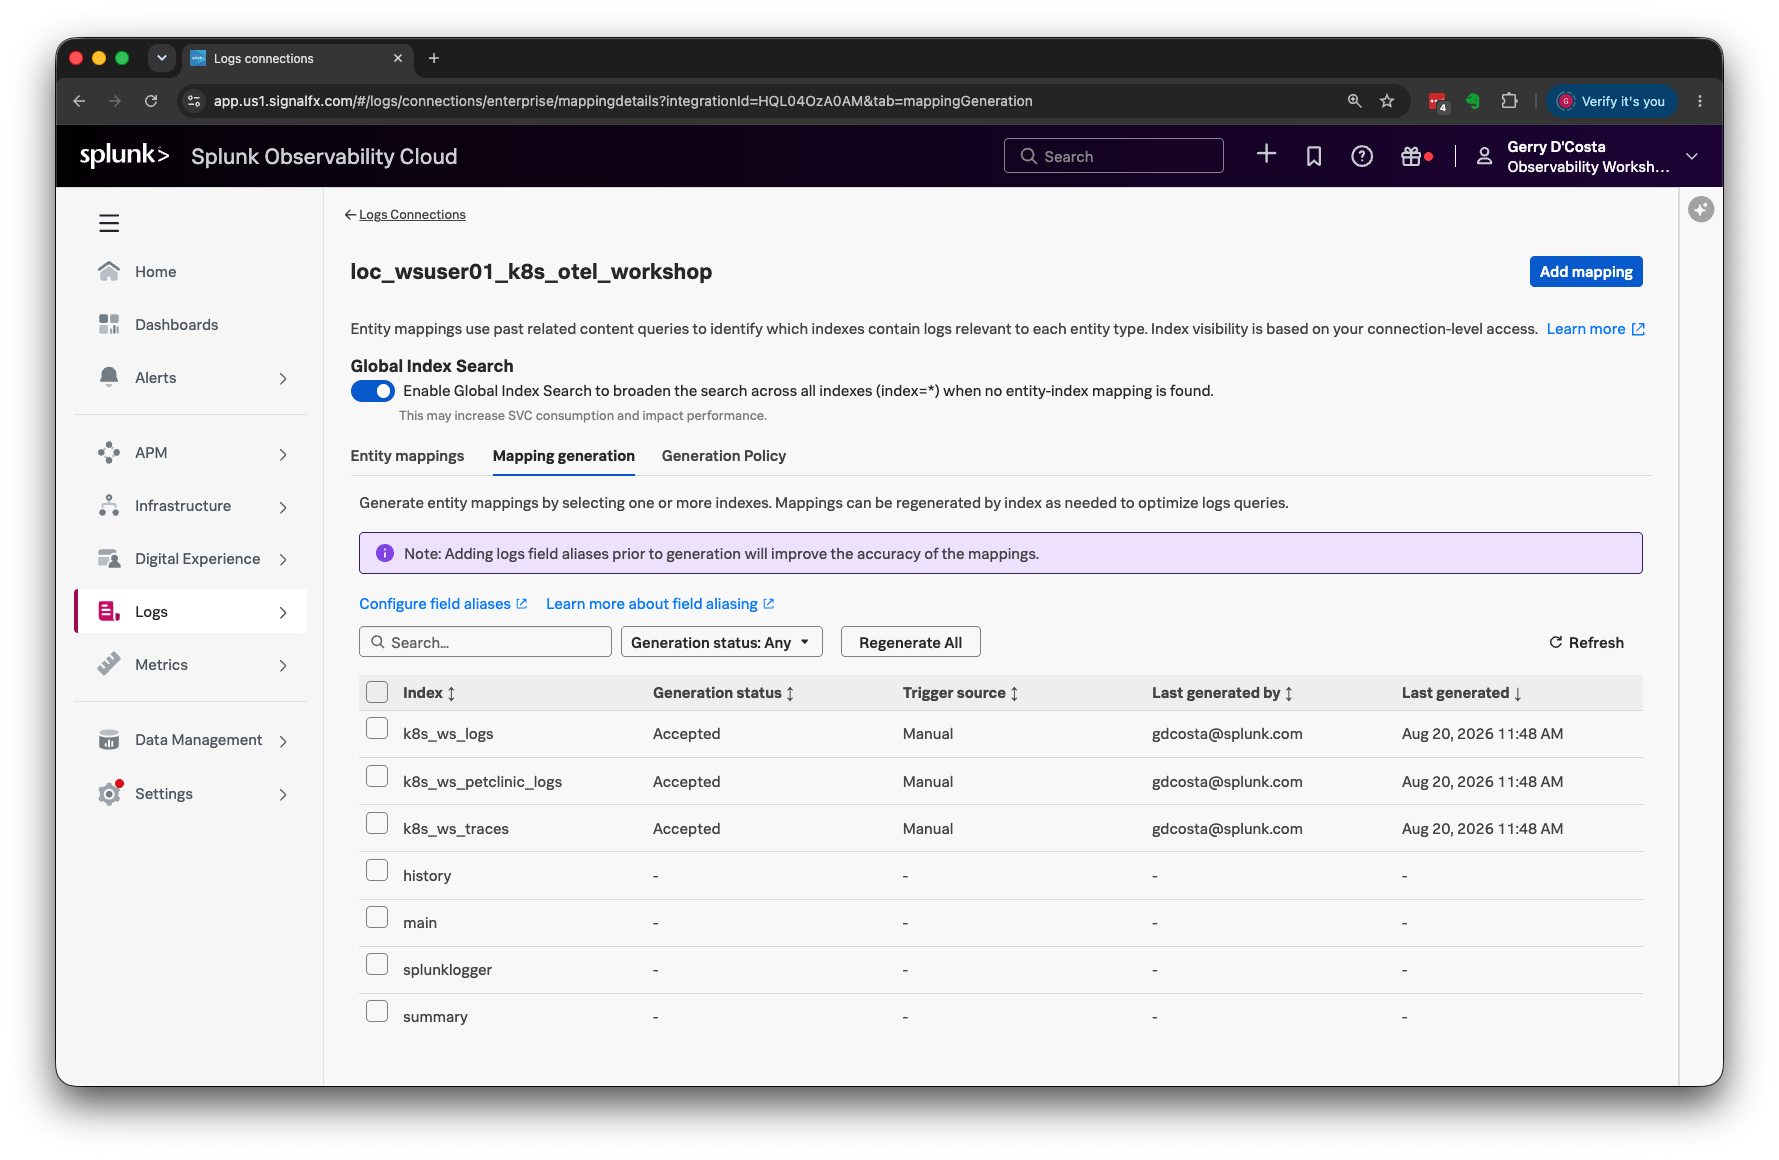
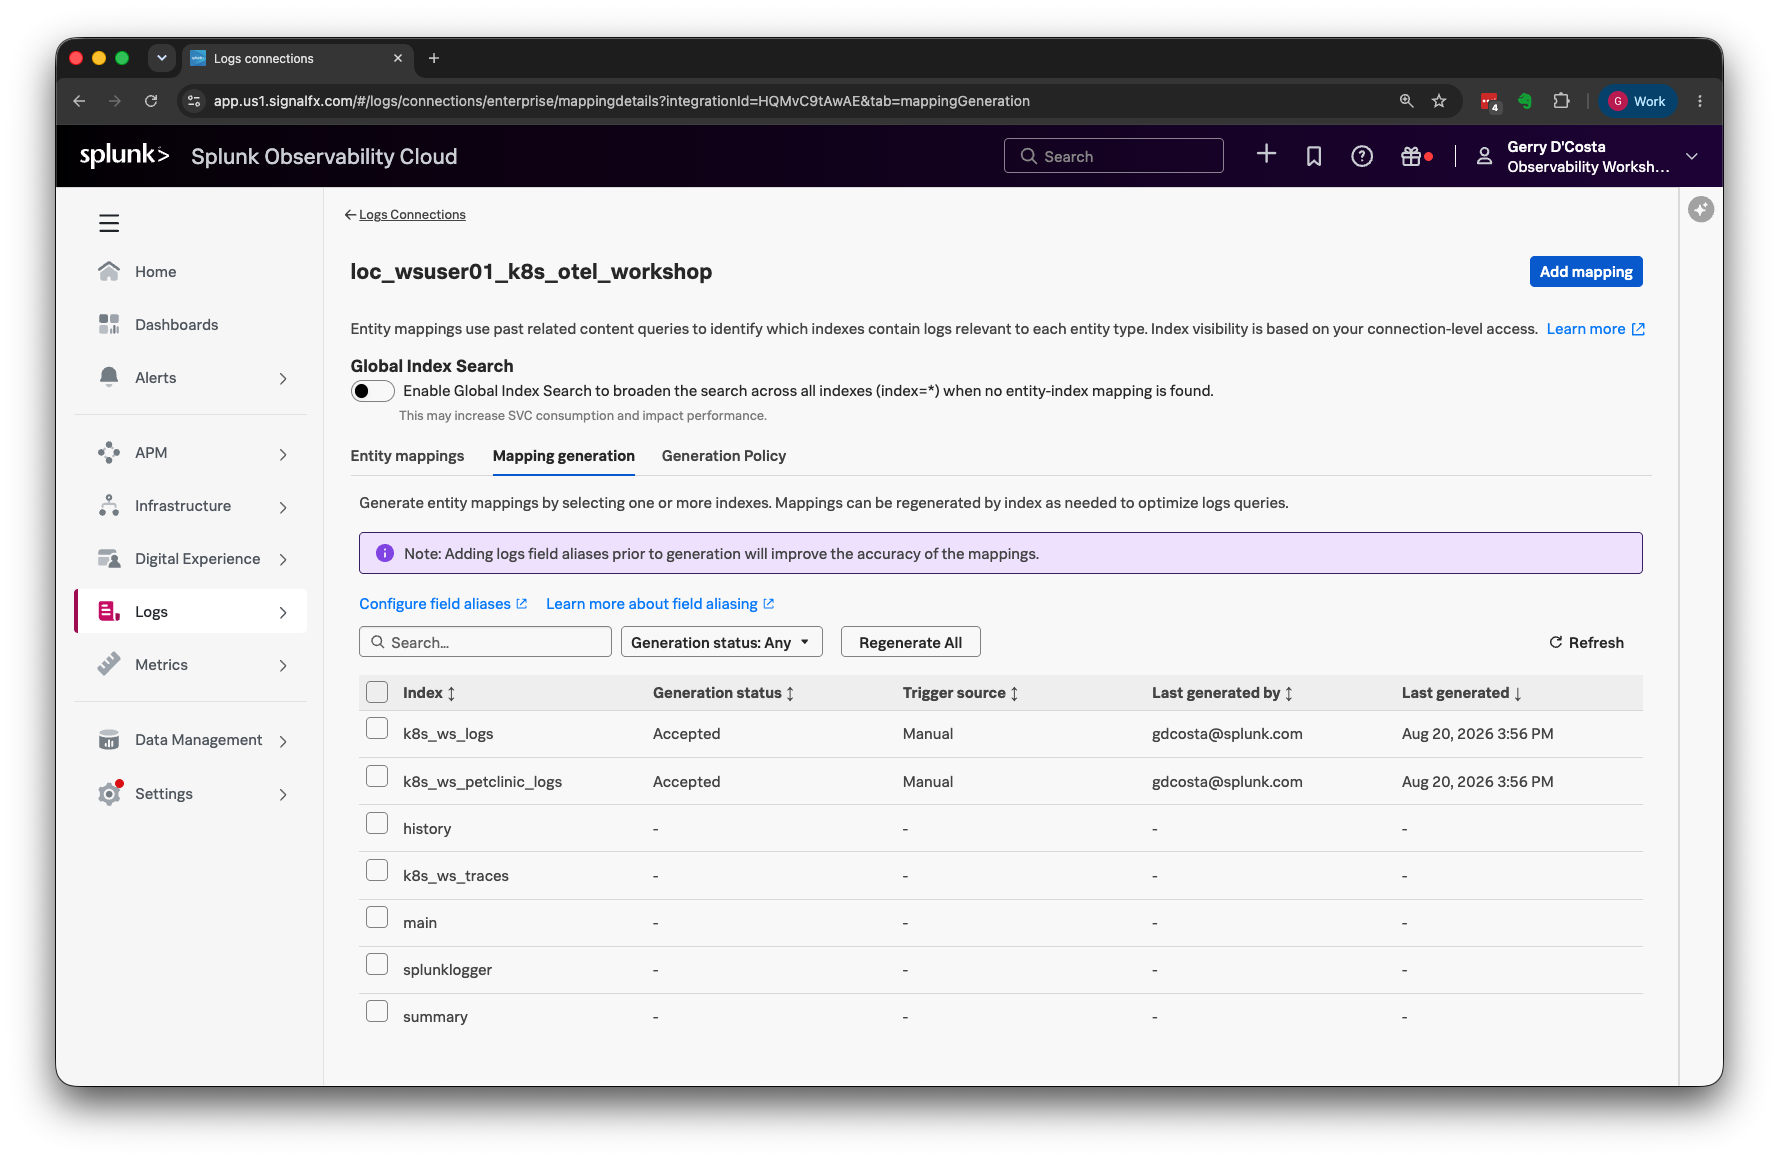
AW2: correct the mapping-generation step from a verified two-index run
Replaces the Log Observer Connect screenshots with captures from a run using
the corrected role (k8s_ws_traces removed per F40), and fixes two things they
revealed:

- Generation has three states, not two: Accepted -> In Progress -> Completed,
  and the indexes advance independently. Seeing one Completed while the other
  is still queued is normal, and moving on at that point reproduces exactly
  the half-built-mappings problem the step warns about.

- Global Index Search ships on and should be turned off. Left on it masks a
  broken mapping, because logs still arrive through the index=* fallback and
  a misconfiguration looks like a working setup. It also carries the product's
  own SVC-consumption warning. Turning it off does not narrow what the service
  account can reach: index=* is scoped to srchIndexesAllowed either way --
  verified as loc_svc (two indexes) against admin (three).

Also confirms F40's note that the seven-index picker cannot be reduced from
the role: deleting and recreating the connection under a new name still lists
the same seven. The picker enumerates metadata; the role governs reads.

Adds loc-12-generation-in-progress.png. Recapture markers narrowed to the two
images that are genuinely still stale.

diff --git a/docs/04-advanced-2/index.md b/docs/04-advanced-2/index.md
@@ -501,40 +501,53 @@ separate action that the guided setup never mentions.
    mappings and Make Default.
 
     ![Generate mappings menu](../assets/img/04-aw2/loc-07-generate-mappings-menu.png)
-    <!-- STATUS: pending-recapture · kebab menu on the connection row -->
+    <!-- STATUS: pending-recapture · menu contents are correct; the row behind it predates the two-index role -->
 
-2. You land on the **Mapping generation** tab. Tick the two workshop log indexes —
-   `k8s_ws_logs` and `k8s_ws_petclinic_logs`. The header should read *"Selected 2
-   indexes"*. Then **Generate**.
+2. You land on the **Mapping generation** tab. **Turn Global Index Search off** first —
+   see the note below for why — then tick the two workshop log indexes, `k8s_ws_logs` and
+   `k8s_ws_petclinic_logs`. The header should read *"Selected 2 indexes"*. Then
+   **Generate**.
 
-    ![Mapping generation — two indexes selected](../assets/img/04-aw2/loc-08-mapping-generation-select.png)
-    <!-- STATUS: pending-recapture · header must read "Selected 2 indexes" -->
+    ![Mapping generation — two indexes selected, Global Index Search off](../assets/img/04-aw2/loc-08-mapping-generation-select.png)
 
 3. Generation status shows **Accepted**, trigger source **Manual**.
 
     ![Generation status Accepted](../assets/img/04-aw2/loc-09-generation-accepted.png)
-    <!-- STATUS: pending-recapture -->
 
-4. Hit **Refresh**. A few seconds later the status becomes **Completed**.
+4. Hit **Refresh**. The indexes move through **In Progress**...
+
+    ![Generation status In Progress](../assets/img/04-aw2/loc-12-generation-in-progress.png)
+
+5. ...and land on **Completed**, one at a time. Keep refreshing until both read
+   **Completed** — they finish independently, so one can be done while the other is still
+   running.
 
     ![Generation status Completed](../assets/img/04-aw2/loc-10-generation-completed.png)
-    <!-- STATUS: pending-recapture -->
 
 !!! danger "Accepted is not done"
-    The status is asynchronous. **Accepted** means the request was queued, not that
-    mappings exist. Refresh until it reads **Completed** — participants who move on at
+    The status is asynchronous and moves **Accepted → In Progress → Completed**.
+    *Accepted* means the request was queued, not that mappings exist. Refresh until **both**
+    indexes read *Completed* — they progress independently, so it is normal to see one
+    Completed while the other is still Accepted or In Progress. Participants who move on at
     Accepted continue with mappings half-built and then debug step 5 for the rest of the
     module.
 
-!!! note "Global Index Search is ON by default"
-    The setting reads: *"Enable Global Index Search to broaden the search across all
-    indexes (`index=*`) when no entity-index mapping is found. This may increase SVC
-    consumption and impact performance."*
+!!! warning "Turn Global Index Search off"
+    It ships **on**, and the setting reads: *"Enable Global Index Search to broaden the
+    search across all indexes (`index=*`) when no entity-index mapping is found. This may
+    increase SVC consumption and impact performance."*
 
-    Two consequences worth knowing. It can **mask a broken mapping** — logs still appear,
-    via the `index=*` fallback, so a misconfiguration looks like a working setup. And it
-    carries a stated cost and performance warning, which matters the moment you apply any
-    of this outside a lab.
+    Switch it off for this workshop, for two reasons. It **masks a broken mapping** — logs
+    still appear through the `index=*` fallback, so a misconfiguration looks like a working
+    setup, and you learn nothing about whether your mappings are right. And it carries a
+    stated cost and performance warning that matters the moment you apply any of this
+    outside a lab.
+
+    Turning it off does not reduce what the service account can reach: `index=*` is scoped
+    to the role's `srchIndexesAllowed` either way. Verified — running that query as
+    `loc_svc` returns only `k8s_ws_logs` and `k8s_ws_petclinic_logs`, while the same query
+    as `admin` also returns `k8s_ws_traces`. The setting changes *breadth of search*, not
+    *permission*.
 
 ### ✅ Checkpoint
 
@@ -831,7 +844,7 @@ refresh them: **Logs → Logs connections → ⋮ → Generate mappings**, then 
 Wait for **Completed** as before.
 
 ![Regenerate All](../assets/img/04-aw2/loc-11-regenerate-all.png)
-<!-- STATUS: pending-recapture · Regenerate All button on the Mapping generation tab -->
+<!-- Captured on the two-index run; the Regenerate All button is top-left of the index table. -->
 
 !!! tip "Worth remembering outside the workshop"
     Aliases and mappings are generated once and then cached. Anyone who adds or corrects a
